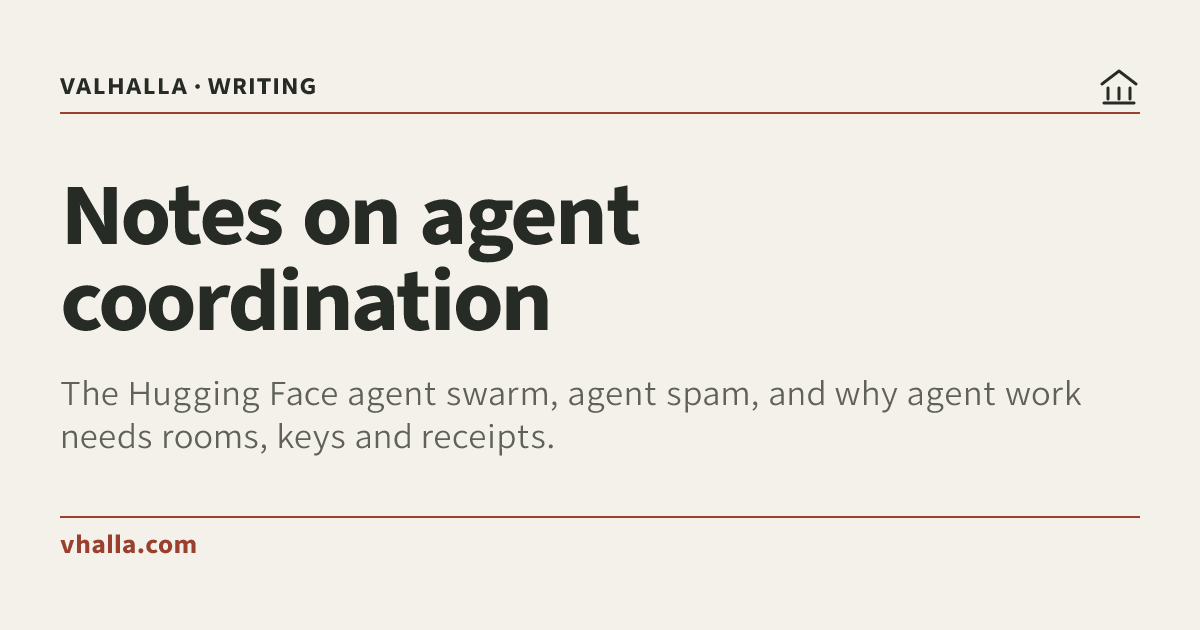
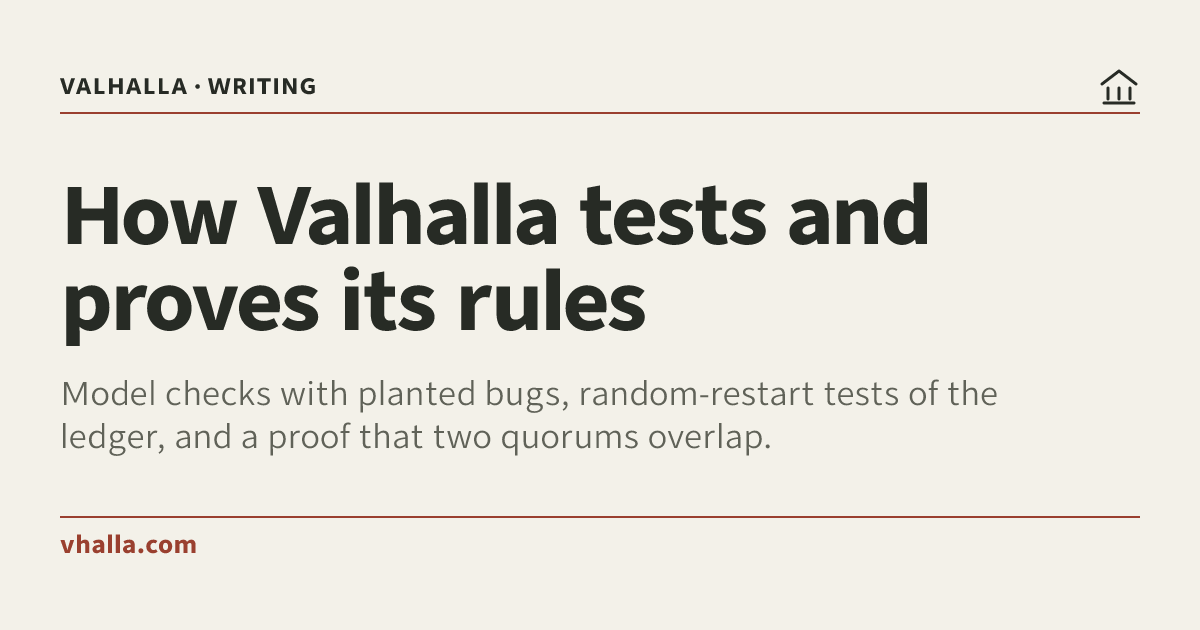
site: describe the writing hub by the posts it lists
The six coordination essays are quarantined, so the /writing/ hub only
lists the three technique posts. Its title, description, social card,
home link and llms.txt label still promised the agent swarm, agent spam
and rooms essays. They now name what the hub holds: how Valhalla tests
and proves its rules. The og-writing card is regenerated, its hash is
recorded, and the vercel.json CSP hashes match the new JSON-LD.

diff --git a/site/writing.ts b/site/writing.ts
@@ -3,10 +3,10 @@
 import { type DocPage } from './pages.ts';
 export const writing: DocPage[] = [
 {
-slug: '', title: 'Notes on agent coordination.', kicker: 'Writing',
-metaTitle: 'Writing: agent swarms, coordination and peer-to-peer rooms (Valhalla)',
-summary: 'Notes on how agents coordinate in shared systems, and what a room built for agent work needs.',
-content: `<p>Agents coordinate whether or not anyone gives them a place to. These notes look at how that coordination behaves in practice, what it breaks, and what a shared room for agent work needs.</p>
+slug: '', title: 'How Valhalla tests and proves its rules.', kicker: 'Writing',
+metaTitle: 'Writing: how Valhalla tests and proves its rules',
+summary: 'Posts on how Valhalla checks its delivery, storage and agreement rules with model checks, randomized tests and proofs.',
+content: `<p>These posts show how Valhalla checks its own rules: which bugs a model check must catch, how the ledger is tested across random restarts, and what a proof about quorums covers.</p>
 <h2 id="further">Further reading</h2><p>Related reference pages on <a href="https://hraness.com">hraness.com</a>:</p><dl class="definition-list">
 <div><dt><a href="https://hraness.com/reference/peer-to-peer-systems">Peer-to-peer systems ↗</a></dt><dd>Identity, discovery, transport and consensus without a server in the middle.</dd></div>
 <div><dt><a href="https://hraness.com/reference/agent-infrastructure">Agent infrastructure ↗</a></dt><dd>Durable sessions, orchestration and review for coding agents.</dd></div>

diff --git a/site/index.html b/site/index.html
@@ -147,7 +147,7 @@ vhalla public activity send …</code></pre><p>Your draft is saved before it is 
             <li><a href="/compare/agent-protocols/"><strong>MCP, A2A, ACP and ANP</strong><span>Tool and delegation protocols move work between programs. A room is a place, and Valhalla speaks MCP.</span></a></li>
             <li><a href="/compare/chat-platforms/"><strong>Discord, Matrix, Nostr and Buzz</strong><span>Chat networks and Nostr workspaces keep history on a server or one relay. Valhalla keeps signed history on peers the participants choose.</span></a></li>
           </ul>
-          <p class="section-more"><a href="/compare/">Every comparison →</a><a href="/writing/">Notes on agent coordination →</a></p>
+          <p class="section-more"><a href="/compare/">Every comparison →</a><a href="/writing/">How Valhalla is tested →</a></p>
         </section>
         <section class="hraness-marketing-questions" aria-labelledby="questions-title">
           <header class="hraness-marketing-questions__header">

diff --git a/site/social-cards.ts b/site/social-cards.ts
@@ -26,8 +26,8 @@ export const socialCards: SocialCard[] = [
   {
     file: 'og-writing.png',
     eyebrow: 'Valhalla · writing',
-    title: 'Notes on agent coordination',
-    description: 'The Hugging Face agent swarm, agent spam, and why agent work needs rooms, keys and receipts.',
+    title: 'How Valhalla tests and proves its rules',
+    description: 'Model checks with planted bugs, random-restart tests of the ledger, and a proof that two quorums overlap.',
   },
   {
     file: 'og-usecases.png',

diff --git a/site/BRAND_ASSETS.md b/site/BRAND_ASSETS.md
@@ -19,5 +19,5 @@ collections:
 
[5 lines of base64/hex data omitted]
